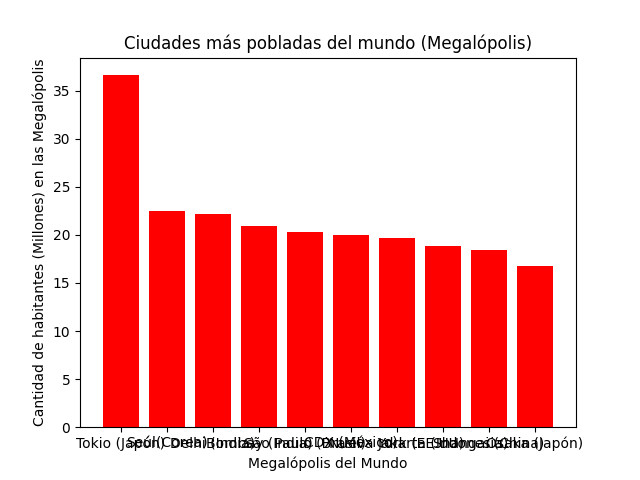
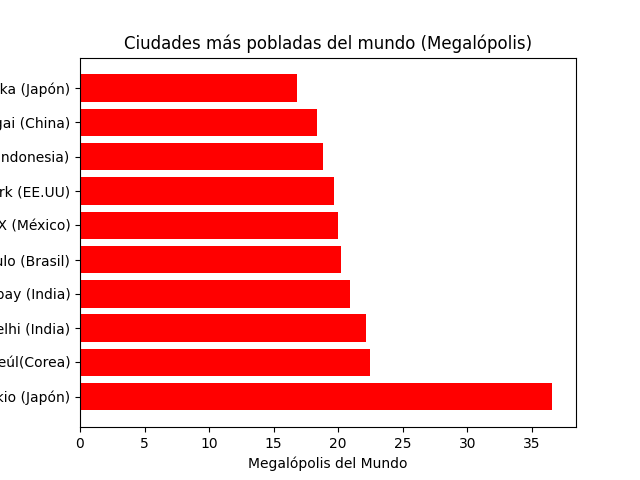
...

Changed region(s): [[0.0, 0.125, 0.9062, 0.9375], [0.0938, 0.875, 0.125, 0.9062]]

diff --git a/Práctica/graficospython.py b/Práctica/graficospython.py
@@ -2,7 +2,7 @@ import matplotlib.pyplot as plt
 #----------------1--------------#
 equipos = ['Atlético Nacional','Santa Fé','Millonarios FC','Deportivo Cali','Deportes Tolima','La Equidad','Junior Club SA.','América de Cali',]
 partidosGanados = [10,9,10,8,8,8,8,7]
-plt.bar(equipos,partidosGanados, color ='y')
+plt.barh(equipos,partidosGanados, color ='y')
 ##################
 #Título
 plt.title('Mejores equipos de futbol en Colombia')
@@ -15,7 +15,7 @@ plt.show ()
 #-----------------2--------------#
 paisesmedallasdeOroNatacion= ['Estados Unidos','Reino Unido','Países Bajos','Canadá','Alemania','Francia','Suecia','Polonia']
 cantidadDeMedallasOroNatacion= [240,180,172,153,134,117,103,102]
-plt.bar(paisesmedallasdeOroNatacion,cantidadDeMedallasOroNatacion, color = 'g')
+plt.barh (paisesmedallasdeOroNatacion,cantidadDeMedallasOroNatacion, color = 'g')
 #########################
 #Título
 plt.title('Mejores 8 países en el Medallero de Natación en los Juegos Paralímpicos')
@@ -28,7 +28,7 @@ plt.show ()
 #------------------3-----------------#
 fluctuacionDolar = [1175,1525,1875,2225,2575,2925,3275,3625,3650,4350]
 añosTasaDeCambio = [2011,2012,2013,2014,2015,2016,2017,2018,2019,2020]
-plt.bar(añosTasaDeCambio,fluctuacionDolar, color = 'c')
+plt.barh (añosTasaDeCambio,fluctuacionDolar, color = 'c')
 ##########################
 #Título 
 plt.title('Fluctuación del dólar en los últimos 10 años')
@@ -54,7 +54,7 @@ plt.show ()
 #---------------5--------------------#
 cantidadDeMegalopolis = [ 36.6 , 22.5 , 22.15 ,20.9 , 20.25 , 20 , 19.7 , 18.8 ,18.4 , 16.8 ]
 megalopolisDelMundo = ['Tokio (Japón)','Seúl(Corea)','Delhi (India)','Bombay (India)','São Paulo (Brasil)','CDX (México)','Nueva York (EE.UU)','Jakarta (Indonesia)','Shangai (China)','Osaka (Japón)']
-plt.bar (megalopolisDelMundo, cantidadDeMegalopolis, color = 'r')
+plt.barh (megalopolisDelMundo, cantidadDeMegalopolis, color = 'r')
 ########################
 #Título
 plt.title('Ciudades más pobladas del mundo (Megalópolis)')
